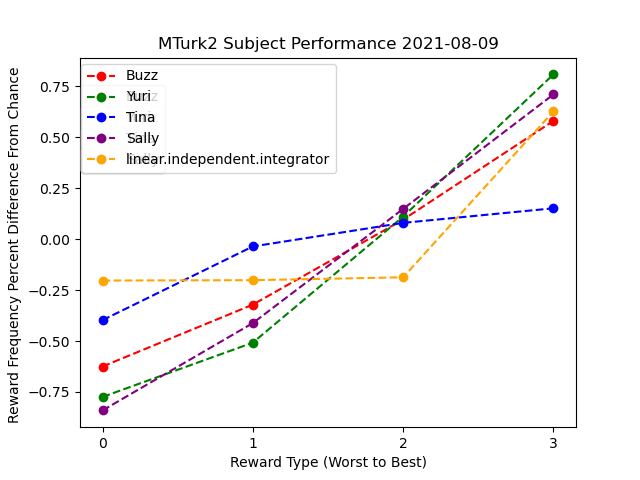
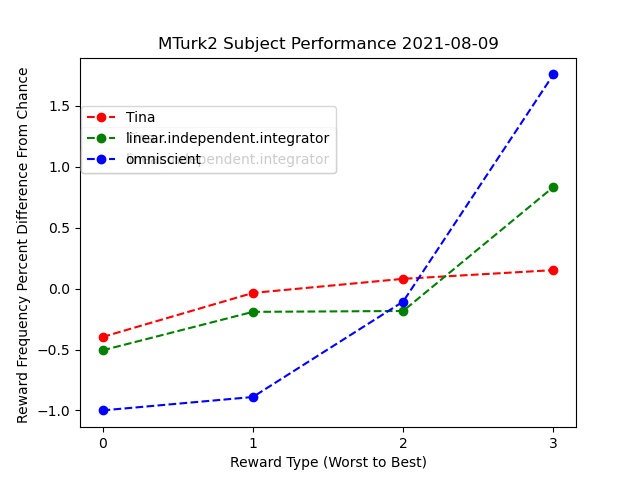
add omniscient optimal agent

diff --git a/mturk2_code/sim/marginal_integrator.py b/mturk2_code/sim/marginal_integrator.py
@@ -6,9 +6,9 @@ import pandas as pd
 
 class Agent:
 
-    def __init__(self, dataset: ColorShapeData, shape_axis_size: int, color_axis_size: int, decision_policy: str):
-        self.reward_matrix = dataset.rewards.reshape(shape_axis_size, color_axis_size)
-        self.freq_matrix = dataset.freq.reshape(shape_axis_size, color_axis_size)
+    def __init__(self, shape_axis_size: int, color_axis_size: int, decision_policy: str):
+        self.shape_axis_size = shape_axis_size
+        self.color_axis_size = color_axis_size
         self.decision_policy = decision_policy
 
     @staticmethod
@@ -21,37 +21,49 @@ class Agent:
             raise ValueError
         return dim
 
-    def get_reward_marginals(self, axis: str):
+    def get_reward_marginals(self, axis: str, reward_matrix):
         dim = self._get_dim(axis)
-        num_rewards = len(np.unique(self.reward_matrix))
-        num_items = self.reward_matrix.shape[dim]
+        num_rewards = len(np.unique(reward_matrix))
+        num_items = reward_matrix.shape[dim]
         marginals = np.empty((num_items, num_rewards))
         for i in range(num_rewards):
-            marginals[:, i] = np.count_nonzero(self.reward_matrix == i, axis=dim) / num_items
+            marginals[:, i] = np.count_nonzero(reward_matrix == i, axis=dim) / num_items
         return marginals
 
-    def get_frequency_marginals(self, axis: str):
+    def get_frequency_marginals(self, axis: str, freq_matrix):
         dim = self._get_dim(axis)
-        num_items = self.reward_matrix.shape[dim]
-        marginals = np.sum(self.freq_matrix, axis=dim) / num_items
+        num_items = freq_matrix.shape[dim]
+        marginals = np.sum(freq_matrix, axis=dim) / num_items
         return marginals
 
-    def fit(self, x=None):
+    def _init_linear_independent_integrator(self, reward_matrix):
+        reward_shape_marginal = self.get_reward_marginals('shape', reward_matrix)
+        reward_color_marginals = self.get_reward_marginals('color', reward_matrix)
+        num_shapes = reward_shape_marginal.shape[0]
+        num_colors = reward_color_marginals.shape[0]
+        numer = reward_shape_marginal[None, :, :] * reward_color_marginals[:, None, :]
+        rewards, reward_counts = np.unique(reward_matrix, return_counts=True)
+        reward_dist = reward_counts / (num_shapes * num_colors)
+        p_r_sc = numer / reward_dist[None, None, :]
+        return p_r_sc
+
+    def fit(self, x):
         """
         Either sets parameters from training data or initialize proper distributions, depending on mode
         """
         if self.decision_policy == 'linear_independent_integrator':
-            reward_shape_marginal = self.get_reward_marginals(axis='shape')
-            reward_color_marginals = self.get_reward_marginals(axis='color')
-            num_shapes = reward_shape_marginal.shape[0]
-            num_colors = reward_color_marginals.shape[0]
-            numer = reward_shape_marginal[None, :, :] * reward_color_marginals[:, None, :]
-            rewards, reward_counts = np.unique(self.reward_matrix, return_counts=True)
-            reward_dist = reward_counts / (num_shapes * num_colors)
-            p_r_sc = numer / reward_dist[None, None, :]
-            self.p_r_sc = p_r_sc
+            try:
+                reward_matrix = x.rewards.reshape(self.shape_axis_size, self.color_axis_size)
+                self.freq_matrix = x.freq.reshape(self.shape_axis_size, self.color_axis_size)
+            except AttributeError:
+                print('Provided dataset \'x\' must be of type ColorSpaceData.')
+                exit(-1)
+            self.p_r_sc = self._init_linear_independent_integrator(reward_matrix)
+
+        elif self.decision_policy == 'omniscient':
+            self.reward_matrix = x.rewards.reshape(self.shape_axis_size, self.color_axis_size)
         else:
-            raise NotImplementedError
+            exit(-2)
 
     def predict(self, shape_index, color_index):
         if self.decision_policy == 'linear_independent_integrator':
@@ -60,6 +72,12 @@ class Agent:
             else:
                 reward_dist = self.p_r_sc[shape_index, color_index]
                 return np.argmax(reward_dist)
+        if self.decision_policy == 'omniscient':
+            if not hasattr(self, 'reward_matrix'):
+                raise AttributeError('Must have run \'fit\' with decision policy \'omniscient\'')
+            else:
+                return self.reward_matrix[shape_index, color_index]
+
 
 
 if __name__ == '__main__':
@@ -68,5 +86,6 @@ if __name__ == '__main__':
                           '../../data/freq_space.csv',
                           num_samples=36 * 36)
 
-    ag = Agent(data, 36, 36, decision_policy='linear_independent_integrator')
-    ag.fit()
+    ag = Agent(36, 36, decision_policy='omniscient')
+    ag.fit(data)
+    print('done')

diff --git a/mturk2_code/analysis/session_analysis.py b/mturk2_code/analysis/session_analysis.py
@@ -16,7 +16,7 @@ from multiprocessing import Pool
 from mturk2_code.sim import Agent, ColorShapeData
 from mturk2_code.connect_task import present_previous_trials
 
-SUBJECT_NAMES = {'Buzz', 'Tina', 'Yuri', 'Sally'}
+SUBJECT_NAMES = {'Tina', 'Yuri'}
 HISTORICAL_FEATS = ['date', 'subject_name', 'num_trials', 'duration(last-first)', 'r0_percent_diff_chance',
                     'r1_percent_diff_chance', 'r2_percent_diff_chance', 'r3_percent_diff_chance', 'prob_best_reward',
                     'prob_worst_reward']
@@ -55,9 +55,12 @@ class SessionData:
         """
         return the observed probability of picking each reward class.
         """
+        full_freq = [0]*4
         dist = np.choose(self.choices, self.reward_map.T)
-        freq = np.unique(dist, return_counts=True)[1]
-        return freq
+        item, freq = np.unique(dist, return_counts=True)
+        for ind, i in enumerate(item):
+            full_freq[i] = freq[ind]
+        return full_freq
 
     def reward_choice_frequency_marginal(self, axis: str):
         """
@@ -189,13 +192,15 @@ def handler(subject_data: list, historical_data: Dict[str, pd.DataFrame], sim_ag
     returns output text, and saves figures to the saved_data/figures directory
     """
     out = ''
-    colors = ['red', 'green', 'blue', 'purple', 'orange']
+    colors = ['red', 'green', 'blue', 'purple', 'orange', 'grey']
     fig1, ax1 = plt.subplots()
     fig2, ax2 = plt.subplots()
     exp_name_set = copy.deepcopy(SUBJECT_NAMES)
     res = [analyze_session(s[0], s[1]) for s in subject_data]
+    sim_res = []
     for a in sim_agents:
-        res.append(analyze_session(*present_previous_trials(a, [d[1] for d in res])))
+        sim_res.append(analyze_session(*present_previous_trials(a, [d[1] for d in res])))
+    res = res + sim_res
     for i, s in enumerate(res):
         analysis = s[0]
         data = s[1]
@@ -350,8 +355,10 @@ if __name__ == '__main__':
                              '../../data/reward_space.csv',
                              '../../data/freq_space.csv',
                              num_samples=36 * 36)
-    bli_agent = Agent(gt_data, 36, 36, decision_policy='linear_independent_integrator')
-    bli_agent.fit()
+    bli_agent = Agent(36, 36, decision_policy='linear_independent_integrator')
+    bli_agent.fit(gt_data)
+    omni_agent = Agent(36, 36, decision_policy='omniscient')
+    omni_agent.fit(gt_data)
 
     output = 'MTurk 2 Progress Report for ' + str(date) + '\n'
     if len(subject_data) == 0:
@@ -359,7 +366,7 @@ if __name__ == '__main__':
 
     historical = get_historical_data(dbx)
 
-    res = handler(subject_data, historical, [bli_agent])
+    res = handler(subject_data, historical, [bli_agent, omni_agent])
     output += res[0]
     hist = res[1]
     if mode in ['--prod', '--test_save_hist']:

diff --git a/mturk2_code/connect_task.py b/mturk2_code/connect_task.py
@@ -19,13 +19,15 @@ def present_previous_trials(agent, all_subject_data: List):
     date = None
     for subject_hist in all_subject_data:
         date = subject_hist.date
-        new_data_dict['Test'].append(subject_hist.color_trials)
-        new_data_dict['TestC'].append(subject_hist.shape_trials)
+        new_data_dict['Test'].append(subject_hist.shape_trials)
+        new_data_dict['TestC'].append(subject_hist.color_trials)
         new_data_dict['RewardStage'].append(subject_hist.reward_map)
         new_data_dict['StartTime'].append(subject_hist.trial_time_milliseconds)
         choices = []
-        for color_trial, shape_trial in zip(subject_hist.color_trials, subject_hist.shape_trials):
-            reward_pred = [agent.predict(s, c) for c, s in zip(color_trial, shape_trial)]
+        for j in range(len(subject_hist.shape_trials)):
+            shape_trial = subject_hist.shape_trials[j]
+            color_trial = subject_hist.color_trials[j]
+            reward_pred = [agent.predict(shape_trial[i], color_trial[i]) for i in range(len(shape_trial))]
             choice = np.argmax(np.array(reward_pred))
             choices.append(choice)
         new_data_dict['Response'].append(np.array(choices))
